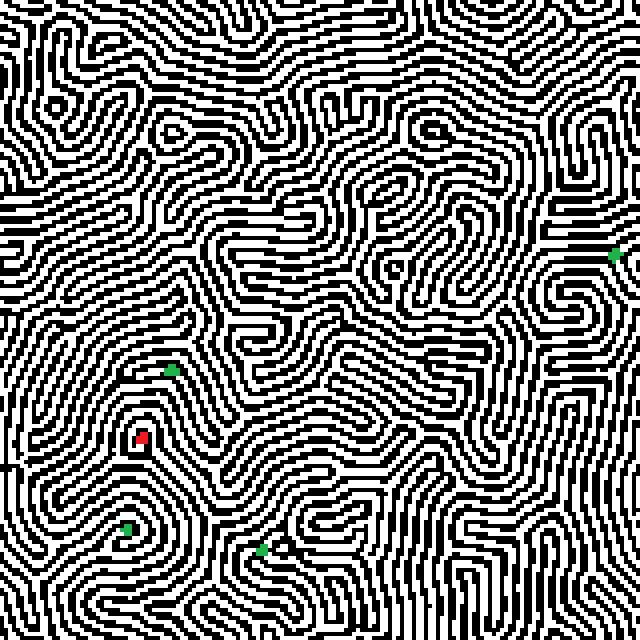
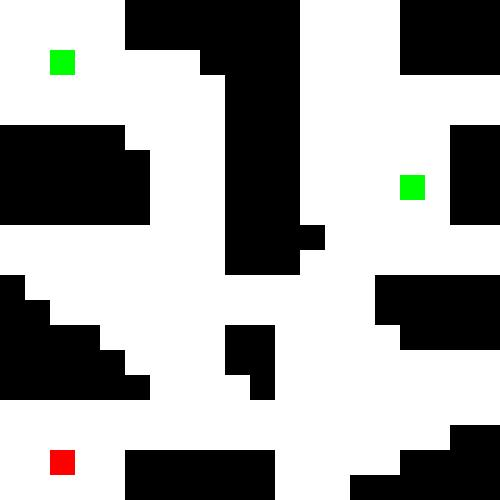
Lab terminado

diff --git a/Laboratorio1/main.py b/Laboratorio1/main.py
@@ -1,7 +1,8 @@
 from analyzer import *
 from collections import deque
-analizador = Analizer('Laboratorio1/laberinto2.png')
-analizador.discretize_image(4)
+import heapq
+analizador = Analizer('Laboratorio1/i.bmp')
+analizador.discretize_image(25)
 analizador.crearvecinos()
 
 matriz = (analizador.return_matrix())
@@ -35,9 +36,67 @@ def BFS(destination,start):
 
         
     return None
+def DFS(destination, start):
+    stack = [start]
+    parents = {start: None}
+
+    while stack:
+        node = stack.pop()
+        if node is not None:
+            if node == destination:
+                path = []
+                while node is not None:
+                    path.append(node)
+                    node = parents[node]
+                return path[::-1]
+            vecinos = node.Movments()
+            for vecino in vecinos:
+                if vecino not in parents:
+                    stack.append(vecino)
+                    parents[vecino] = node
+
+    return None
+
+import heapq
+
+def A_star(destination, start):
+    heap = [(heuristic_distance(start, destination), start)]  # Use a heap to store the nodes to visit
+    parents = {start: None}
+    g_score = {start: 0}  # g_score is the distance from the start node
+
+    while heap:
+        current = heapq.heappop(heap)[1]  # Get the node with the lowest f_score
+        if current is not None:
+            if current == destination:
+                path = []
+                while current is not None:
+                    path.append(current)
+                    current = parents[current]
+                return path[::-1]
+
+            neighbors = current.Movments()
+            for neighbor in neighbors:
+                if neighbor is not None:
+                    tentative_g_score = g_score[current] + distance(current, neighbor)
+                    if neighbor not in g_score or tentative_g_score < g_score[neighbor]:
+                        parents[neighbor] = current
+                        g_score[neighbor] = tentative_g_score
+                        f_score = g_score[neighbor] + heuristic_distance(neighbor, destination)
+                        heapq.heappush(heap, (f_score, neighbor))
+
+    return None
+
+def heuristic_distance(current, destination):
+    if current and destination is not None:
+        return abs(current.posicion[0] - destination.posicion[0]) + abs(current.posicion[1] - destination.posicion[1])
 
 
-x = BFS(final[1],init)
+def distance(current, neighbor):
+    if current and neighbor is not None:
+        return ((current.posicion[0] - neighbor.posicion[0])**2 + (current.posicion[1] - neighbor.posicion[1])**2)**0.5
+
+x = A_star(final[1],init)
+
 lista = []
 for nodo in x:
     lista.append(nodo.cellrange)

diff --git a/Laboratorio1/Casilla.py b/Laboratorio1/Casilla.py
@@ -11,6 +11,7 @@ class Casilla():
         self.colori = colori
         self.cellrange = cellrange
         self.mov = []
+        
     
     def get_posicion(self):
         return [self.posicion[0],self.posicion[1]]
@@ -19,4 +20,6 @@ class Casilla():
         return(self.color)
     def Movments(self):
         return [self.arriba,self.abajo,self.derecha,self.izquierda]
+    def __lt__(self, other):
+        return self.posicion[0] < other.posicion[0] and self.posicion[1] < other.posicion[1]
 
